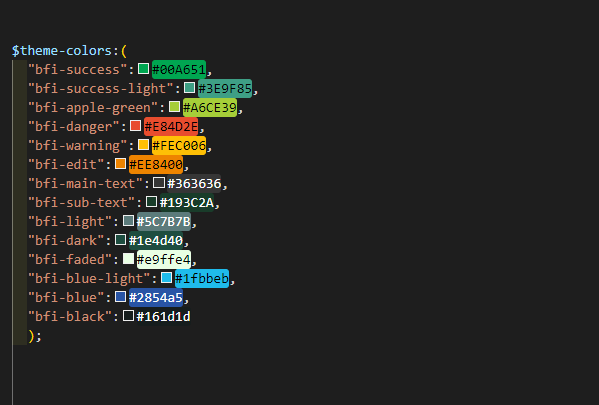
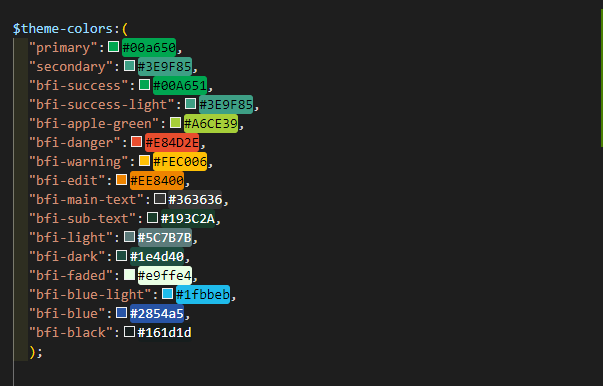
new

Changed region(s): [[0.0, 0.0622, 0.4207, 1.0], [0.9917, 0.0311, 1.0, 0.3731]]

diff --git a/scss/style.scss b/scss/style.scss
@@ -1,6 +1,8 @@
 
 
 $theme-colors:(
+  "primary":#00a650,
+  "secondary":#3E9F85,
   "bfi-success":#00A651,
   "bfi-success-light":#3E9F85,
   "bfi-apple-green":#A6CE39,
@@ -17,6 +19,73 @@ $theme-colors:(
   "bfi-black":#161d1d 
   );
 
+$BFI1: #00a651;
+$BFI2: #a6ce39;
+$BG: #eff8f4;
+$green: #0d874a;
+$disabled: #e9e9e9 ;
+
+
+$mainT: #193C2A;
+$subT: #6d7571;
+$subT_F: #6d757123;
+$faded: #e9ffe4;
+
+$colPos1: #5ABC44;
+$colPos1_F: #5abc442a;
+$colPos1_H: #3c882b;
+
+$colPos2:#00A651;
+$colPos2_F:#00a6501f;
+$colPos2_H:#007a3b;
+
+$colEdit: #EE8400;
+$colEdit_F: #ee830031;
+$colEdit_H: #c96e00;
+
+$colView:#2F6C82;
+$colView_F:#2f6c8223;
+$colView_H:#1e4e5f;
+
+$colReject: #E84D2E;
+$colReject_F: #e84d2e27;
+$colReject_H: #c4462c;
+
+$colBlacklist: #262C2C;
+$colBlacklist_F: #262c2c25;
+$colBlacklist_H: #161d1d; 
+
+$colKeep: #5c7b7b;
+$colKeep_F: #5c7b7b23;
+$colKeep_H: #405353;
+
+$colAlert: #FEC006;
+$colAlert_F: #fec00650;
+$colAlert_H: #d19d00;
+
+$colInfos: #1fbbeb;
+$colInfos_F: #64dbff48;
+$colInfos_H: #008fbb;
+
+$colAdmin: #a6b8eb;
+$colAdmin_F: #a6bceb48;
+$colAdmin_H: #2854a5;
+
+$colEndo: #eba6dc;
+$colEndo_F: #eba6dc42;
+$colEndo_H: #8a1d72;
+
+$colQuick: #889E81;
+$colQuick_F: #889e813f;
+$colQuick_H: #515e4d;
+
+$colSched: #3E9F85;
+$colSched_F: #3e9f8546;
+$colSched_H: #1e4d40;
+
+$input-focus-border-color: ($green);
+$input-border-color  :(gray);
+$input-disabled-bg: ($disabled);
 
 @font-face {
   font-family: font_R;

diff --git a/README.md b/README.md
@@ -6,9 +6,12 @@
 npm install bfi-colors
 ```
 
+### Requirements
 ```
 Note that installing as a dev dependency --save-dev 
 or -D will not work correctly.
+
+Make sure to install Sass.
 
 ```
 
@@ -46,10 +49,9 @@ css: ["@/assets/custom.scss"],
 
 ### Color Variants
 ```
-Access the customized color variants using the variant property
+Access the customized color variants using the "variant" property
 See the list of the custom variant names below
-Also, Bootstrap's default variants can still be 
-accessed using default variant names
+
 ```
 ### Sample Usage
 
